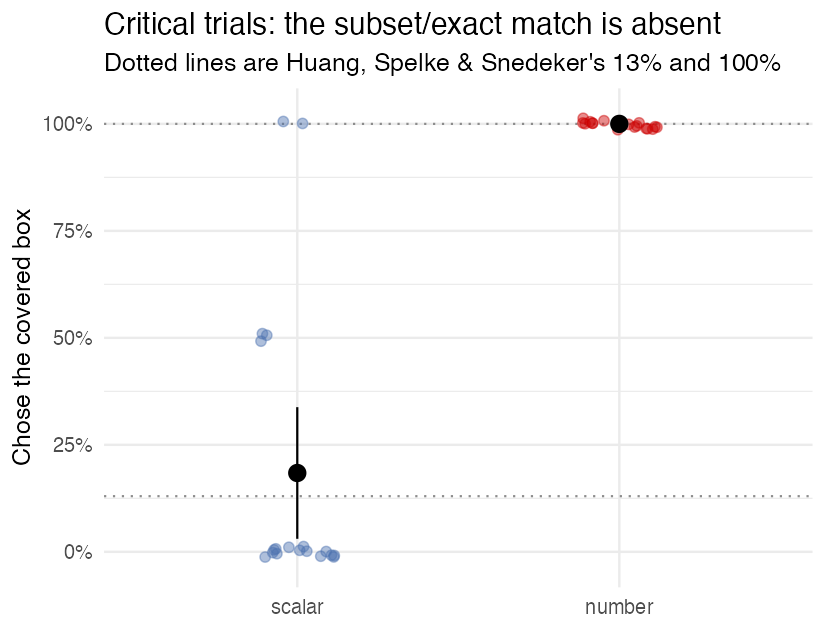
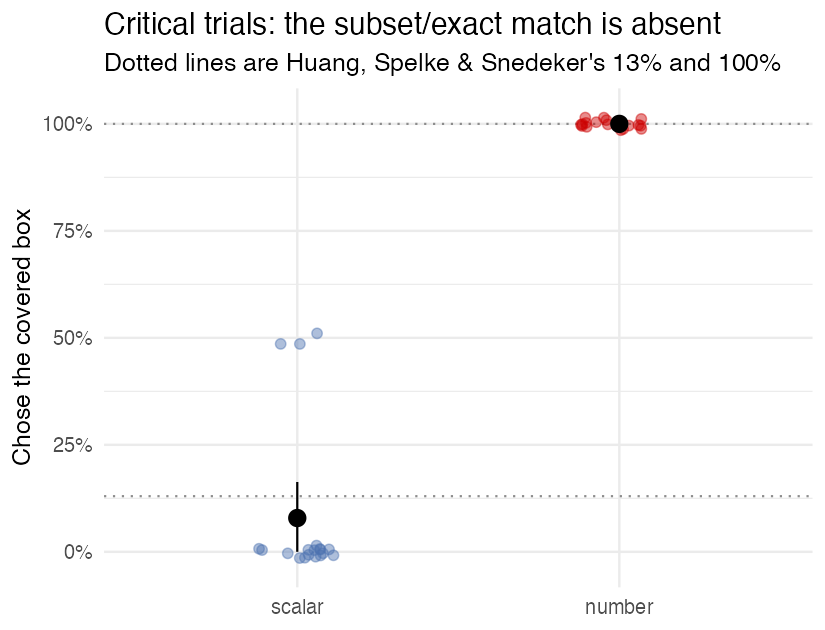
Put an "all" trial first, to fix the domain of the partitive
Elizabeth's point: "some of the apples" leaves open whether "the apples"
ranges over the box under consideration or over the whole display, and the
global reading is a complete alternative account of the headline. On a
critical trial the ALL box shows the target with four of the eight apples
visible, which read globally IS "some but not all" -- so it can be chosen
with the exclusive reading of "some" fully intact, and 87% choosing it
would say nothing about implicature.

An "all" trial separates the readings. Box-internally the ALL box is
correct; globally no box is, since the target has four of eight, and a
global reader takes the covered box. Putting it first settles the question
before any "some" trial is seen, and since the task presupposes an answer
exists, meeting "all" first pushes toward the only construal on which one
does.

The response is recorded rather than merely assumed to work: the analysis
reports how many read the domain box-internally, warns below 85% in the
scalar term, and splits the critical rate by it.

The cost is a visible-answer trial before the critical ones. Familiarization
already shows two of those and two requiring the covered box, so it adds
little, and the domain confound explains the finding away where extinction
only biases it in a direction the probe measures.

Six test trials still; otherQuant drops to 1 since allVis now leads.

Claude-Session: https://claude.ai/code/session_01W6W1Yt4uZhCBdA8GGktaX5

diff --git a/design.py b/design.py
@@ -61,8 +61,39 @@ and every prompt in the survey is unique.
 #              manipulation is conservative: if the lower-bounded reading
 #              survives with "all" primed, that is stronger evidence. They sit
 #              after the critical trials in any case.
-N_TRIALS = {"critical": 2, "matchVsMore": 1, "matchVsLess": 0,
-            "otherQuant": 2, "probe": 1}
+#   anchor     an "all" trial, FIRST. See the note on domain below.
+N_TRIALS = {"anchor": 1, "critical": 2, "matchVsMore": 1, "matchVsLess": 0,
+            "otherQuant": 1, "probe": 1}
+
+# ---- the domain of "the apples", and why an "all" trial goes first ----------
+# "Give me the box where Zip has some of the apples" leaves the domain of "the
+# apples" open. Box-internal -- the apples in the box under consideration -- or
+# global, the apples anywhere on screen?
+#
+# It matters, because the global reading gives a complete alternative account of
+# the headline result. On a critical trial the ALL box shows Zip with four of
+# the eight apples visible. Read globally that IS "some but not all", so a
+# participant can take the ALL box with the exclusive reading of "some" fully
+# intact. Eighty-seven percent choosing it would then say nothing about whether
+# the implicature was computed.
+#
+# The "all" trial separates the readings, and putting it first settles the
+# question before any "some" trial is seen:
+#
+#   box-internal  the ALL box is correct: the target has all four in that box
+#   global        no box is correct -- the target has four of eight on screen --
+#                 so a global reader takes the covered box
+#
+# And because the task presupposes an answer exists, meeting "all" first pushes
+# toward the only construal on which one does. The response is also recorded:
+# a participant who takes the covered box here was reading globally, and their
+# later "some" responses should be read in that light.
+#
+# The cost is that a trial with a visible answer now precedes the critical ones,
+# which cuts against putting critical trials first. Familiarization already
+# shows two visible-answer trials and two requiring the covered box, so this
+# adds little; and the domain confound explains away the whole finding, where
+# extinction only biases it in a direction the probe measures.
 
 # "matchVsLess" is set to 0. It is the one trial type here that is a pure comprehension
 # check, it sits at ceiling in the original (100%), and four familiarization
@@ -93,11 +124,14 @@ NAMES = [("Zip","Nub"), ("Mo","Pim"), ("Dax","Wug"), ("Tev","Lom"), ("Bix","Rud"
 # is correct whatever anyone's semantics. It sits AFTER the critical trials, so
 # it cannot prime them, and it turns the worry into a measurement: if scalar
 # participants pass the probe, their low critical rate is not extinction.
-ORDER  = ["critical", "matchVsMore", "matchVsLess", "otherQuant", "probe"]
-SCALAR = {"critical":"critical", "matchVsLess":"noneSome", "matchVsMore":"someAll",
-          "otherQuant":["noneVis","allVis"], "probe":"probe"}
-NUMBER = {"critical":"critical", "matchVsLess":"oneTwo",   "matchVsMore":"twoMore",
-          "otherQuant":["threeVis","fiveVis"], "probe":"probe"}
+ORDER  = ["anchor", "critical", "matchVsMore", "matchVsLess", "otherQuant", "probe"]
+SCALAR = {"anchor":"allVis", "critical":"critical", "matchVsLess":"noneSome",
+          "matchVsMore":"someAll", "otherQuant":["noneVis"], "probe":"probe"}
+# the number term has no partitive and so no domain ambiguity -- "the box with
+# two fish" counts within a box by construction. Its anchor is there to keep the
+# two versions the same length and shape.
+NUMBER = {"anchor":"fiveVis", "critical":"critical", "matchVsLess":"oneTwo",
+          "matchVsMore":"twoMore", "otherQuant":["threeVis"], "probe":"probe"}
 
 # which two open boxes each trial type shows (choice 1, choice 2)
 SCALAR_BOXES = {"critical": ("NONE","ALL"),   # no subset match -> covered box

diff --git a/README.md b/README.md
@@ -105,6 +105,7 @@ entirely — otherwise it is 22 questions × 3 choices of manual insertion.
 
   | role | trials | what it does |
   |---|---|---|
+  | **anchor** — an *all* trial, **first** | 1 | fixes the domain, see below |
   | **critical** — (NONE,ALL) / (1, 3∨5) | 2 | the headline: no match visible, so anyone insisting on one must take the covered box. 13% vs 100%. |
   | **matchVsMore** — (SOME,ALL) / (2, 3∨5) | 1 | *not* a comprehension check. Both a subset and a total set are visible and adults take the subset 90% of the time — Huang et al. call this "a robust ability to calculate the scalar implicature". It is what makes the critical result strange: the implicature is computed when it picks something out and abandoned when it does not. |
   | **matchVsLess** — (NONE,SOME) / (1, 2) | **0** | dropped, see below |
@@ -127,6 +128,43 @@ entirely — otherwise it is 22 questions × 3 choices of manual insertion.
   et al.'s three test conditions, so this does not cover their full design. Its
   display is still seen, since `noneVis` uses the same pair of boxes, but under
   *none* rather than *some*. `N_TRIALS["matchVsLess"] = 1` restores it.
+
+### The anchor, and the domain of "the apples"
+
+*Give me the box where Zip has some of the apples* leaves open what **the
+apples** ranges over. The apples in the box under consideration, or the apples
+anywhere on screen?
+
+It matters, because the global reading is a **complete alternative account of
+the headline**. On a critical trial the ALL box shows the target with four of
+the eight apples visible. Read globally that *is* "some but not all" — so a
+participant can take the ALL box with the exclusive reading of *some* entirely
+intact, and 87% choosing it would say nothing about whether the implicature was
+computed.
+
+The first trial therefore asks for the box where the target has **all** of the
+objects, which separates the readings:
+
+| domain | correct answer |
+|---|---|
+| box-internal | the **ALL** box — the target has all four in that box |
+| global | the **covered** box — no box has all eight |
+
+Putting it first settles the question before any *some* trial is seen, and
+because the task presupposes an answer exists, meeting *all* first pushes toward
+the only construal on which one does. The response is also **recorded**:
+`coveredbox-rep.R` reports how many read the domain box-internally, warns if
+scalar participants fall below 85%, and splits the critical rate by it.
+
+The cost is that a trial with a visible answer now precedes the critical ones,
+which cuts against critical-first. Familiarization already shows two
+visible-answer trials and two requiring the covered box, so this adds little —
+and the domain confound explains the whole finding away, where extinction only
+biases it in a direction the probe measures.
+
+The number term has no partitive and so no domain ambiguity: *the box with two
+fish* counts within a box by construction. Its anchor is there to keep the two
+versions the same length and shape.
 
 ### Fillers in another quantifier
 
